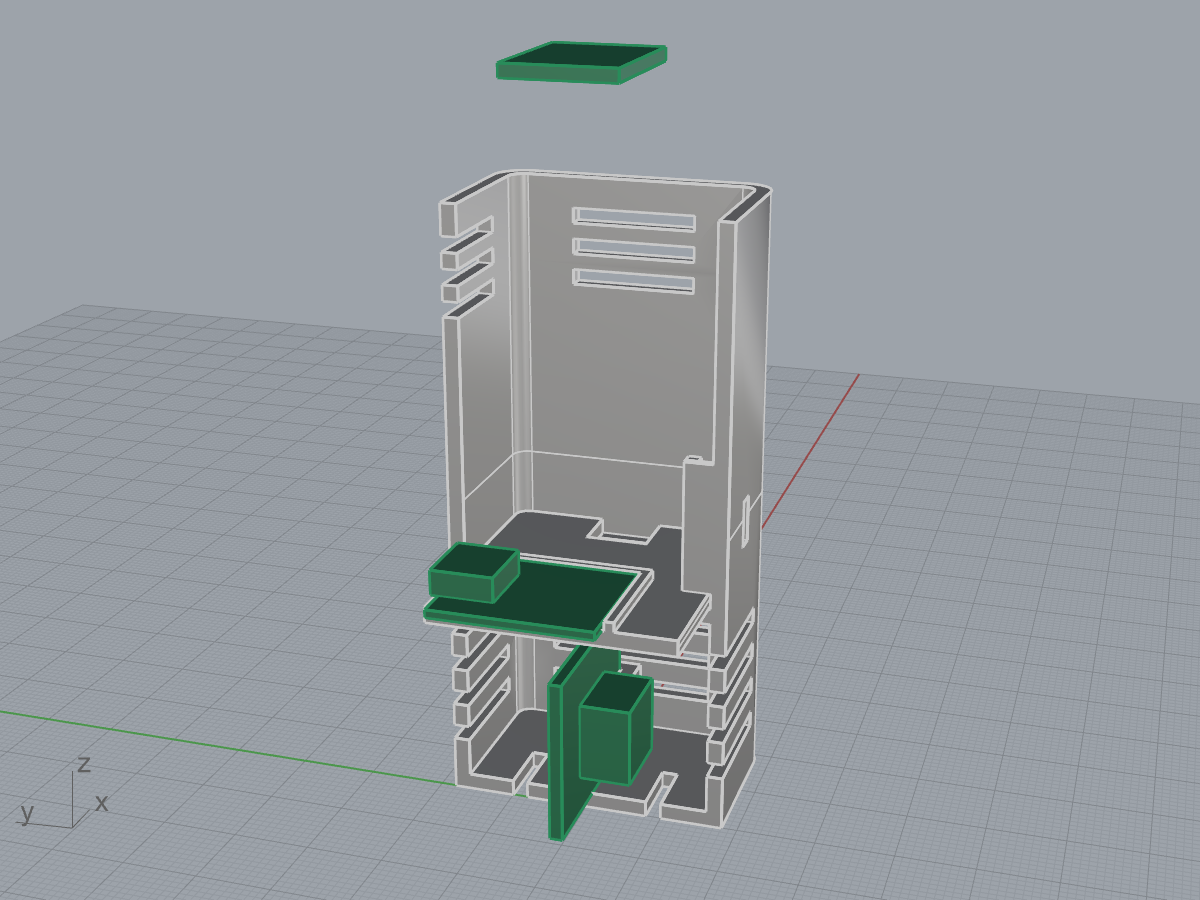
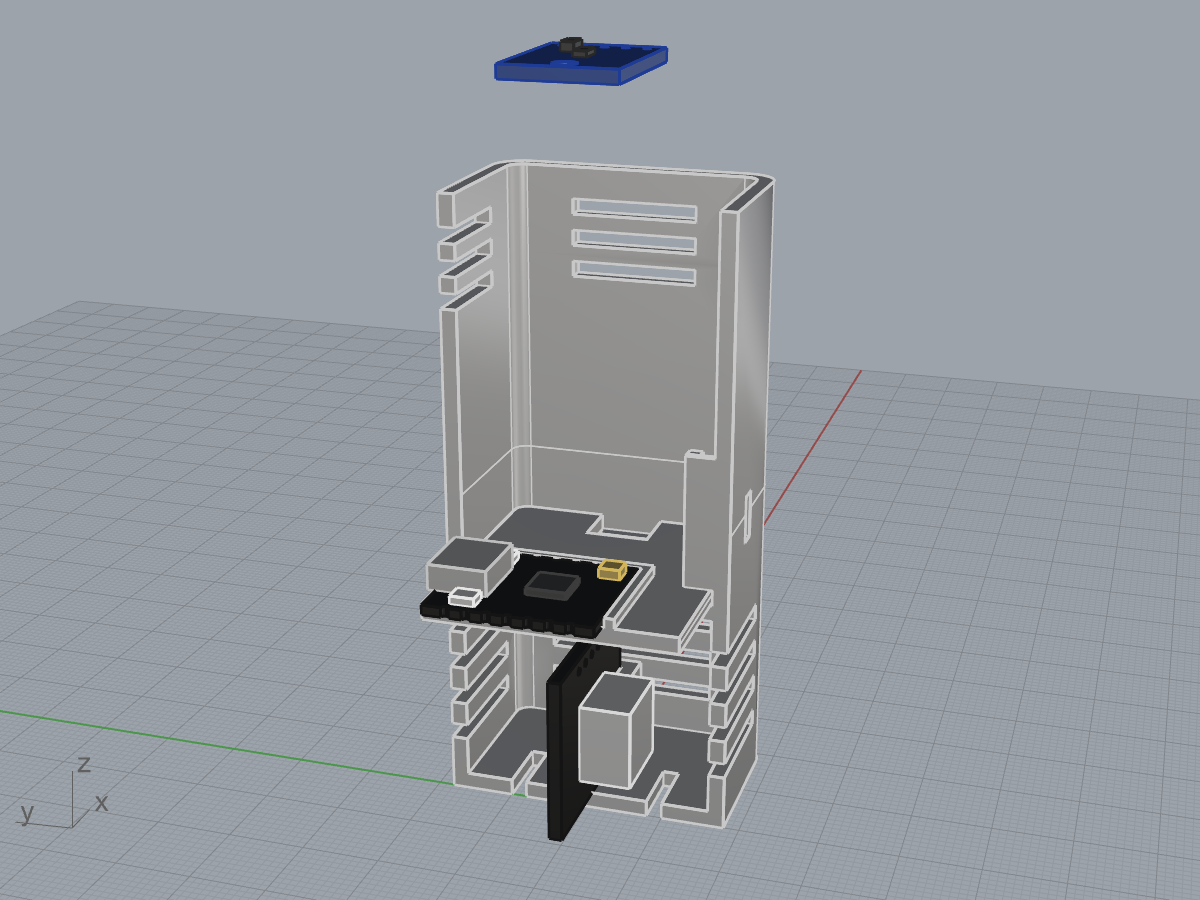
Bedroom sensor: mic STEP imported without a dialog, 3dm written via a temp file, ignore Rhino lock/temp files

Changed region(s): [[0.3392, 0.1556, 0.6475, 0.9333], [0.4008, 0.0311, 0.555, 0.0933]]

diff --git a/hardware/bedroom-sensor/case.py b/hardware/bedroom-sensor/case.py
@@ -225,10 +225,12 @@ def make_bh1750(lid_z):
 def import_step(doc, path, lay):
     """Import a STEP file, move all its objects to a layer, return their ids."""
     before = set(o.Id for o in doc.Objects)
-    if not os.path.exists(path) or not doc.Import(path):
+    # command-line import (-_Import) answers its options itself; doc.Import() can open a dialog and hang a batch run
+    if not os.path.exists(path) or not Rhino.RhinoApp.RunScript('_-Import "%s" _Enter' % path, False):
         log("WARNING: could not import " + path)
         return []
     ids = [o.Id for o in doc.Objects if o.Id not in before]
+    doc.Objects.UnselectAll()
     for i in ids:
         o = doc.Objects.FindId(i); o.Attributes.LayerIndex = lay; o.CommitChanges()
     return ids
@@ -328,6 +330,7 @@ def main():
     place_mic(doc, import_step(doc, MIC_STEP, sub("I2S microphone (Adafruit STEP)")))
     doc.Views.Redraw()
 
+    log("checkpoint: previews")
     try:
         view = doc.Views.ActiveView
         view.ActiveViewport.SetProjection(Rhino.Display.DefinedViewportProjection.Perspective, "Perspective", False)
@@ -338,6 +341,7 @@ def main():
         cam.ZoomExtents()
         view.Redraw()
         view.CaptureToBitmap(SD.Size(1200, 900)).Save(os.path.join(HERE, "preview.png"))
+        log("checkpoint: front preview saved")
         # back view for the USB opening and the upper vents
         cam.SetCameraLocations(G.Point3d(0, 0, 45), G.Point3d(140, 170, 120))
         cam.ZoomExtents(); view.Redraw()
@@ -359,7 +363,14 @@ def main():
     except Exception:
         log("preview failed:\n" + traceback.format_exc())
 
-    doc.WriteFile(os.path.join(HERE, "case.3dm"), Rhino.FileIO.FileWriteOptions())
+    log("checkpoint: writing 3dm")
+    # write to a temp file, then swap it in: writing straight to case.3dm stalls on a prompt when it is open in Rhino
+    tmp_path, out_path = os.path.join(HERE, "case.tmp.3dm"), os.path.join(HERE, "case.3dm")
+    doc.WriteFile(tmp_path, Rhino.FileIO.FileWriteOptions())
+    try:
+        os.replace(tmp_path, out_path)
+    except OSError as e:
+        log("could not replace case.3dm (%s); result left in case.tmp.3dm" % e)
     doc.Modified = False
     log("done")
 
